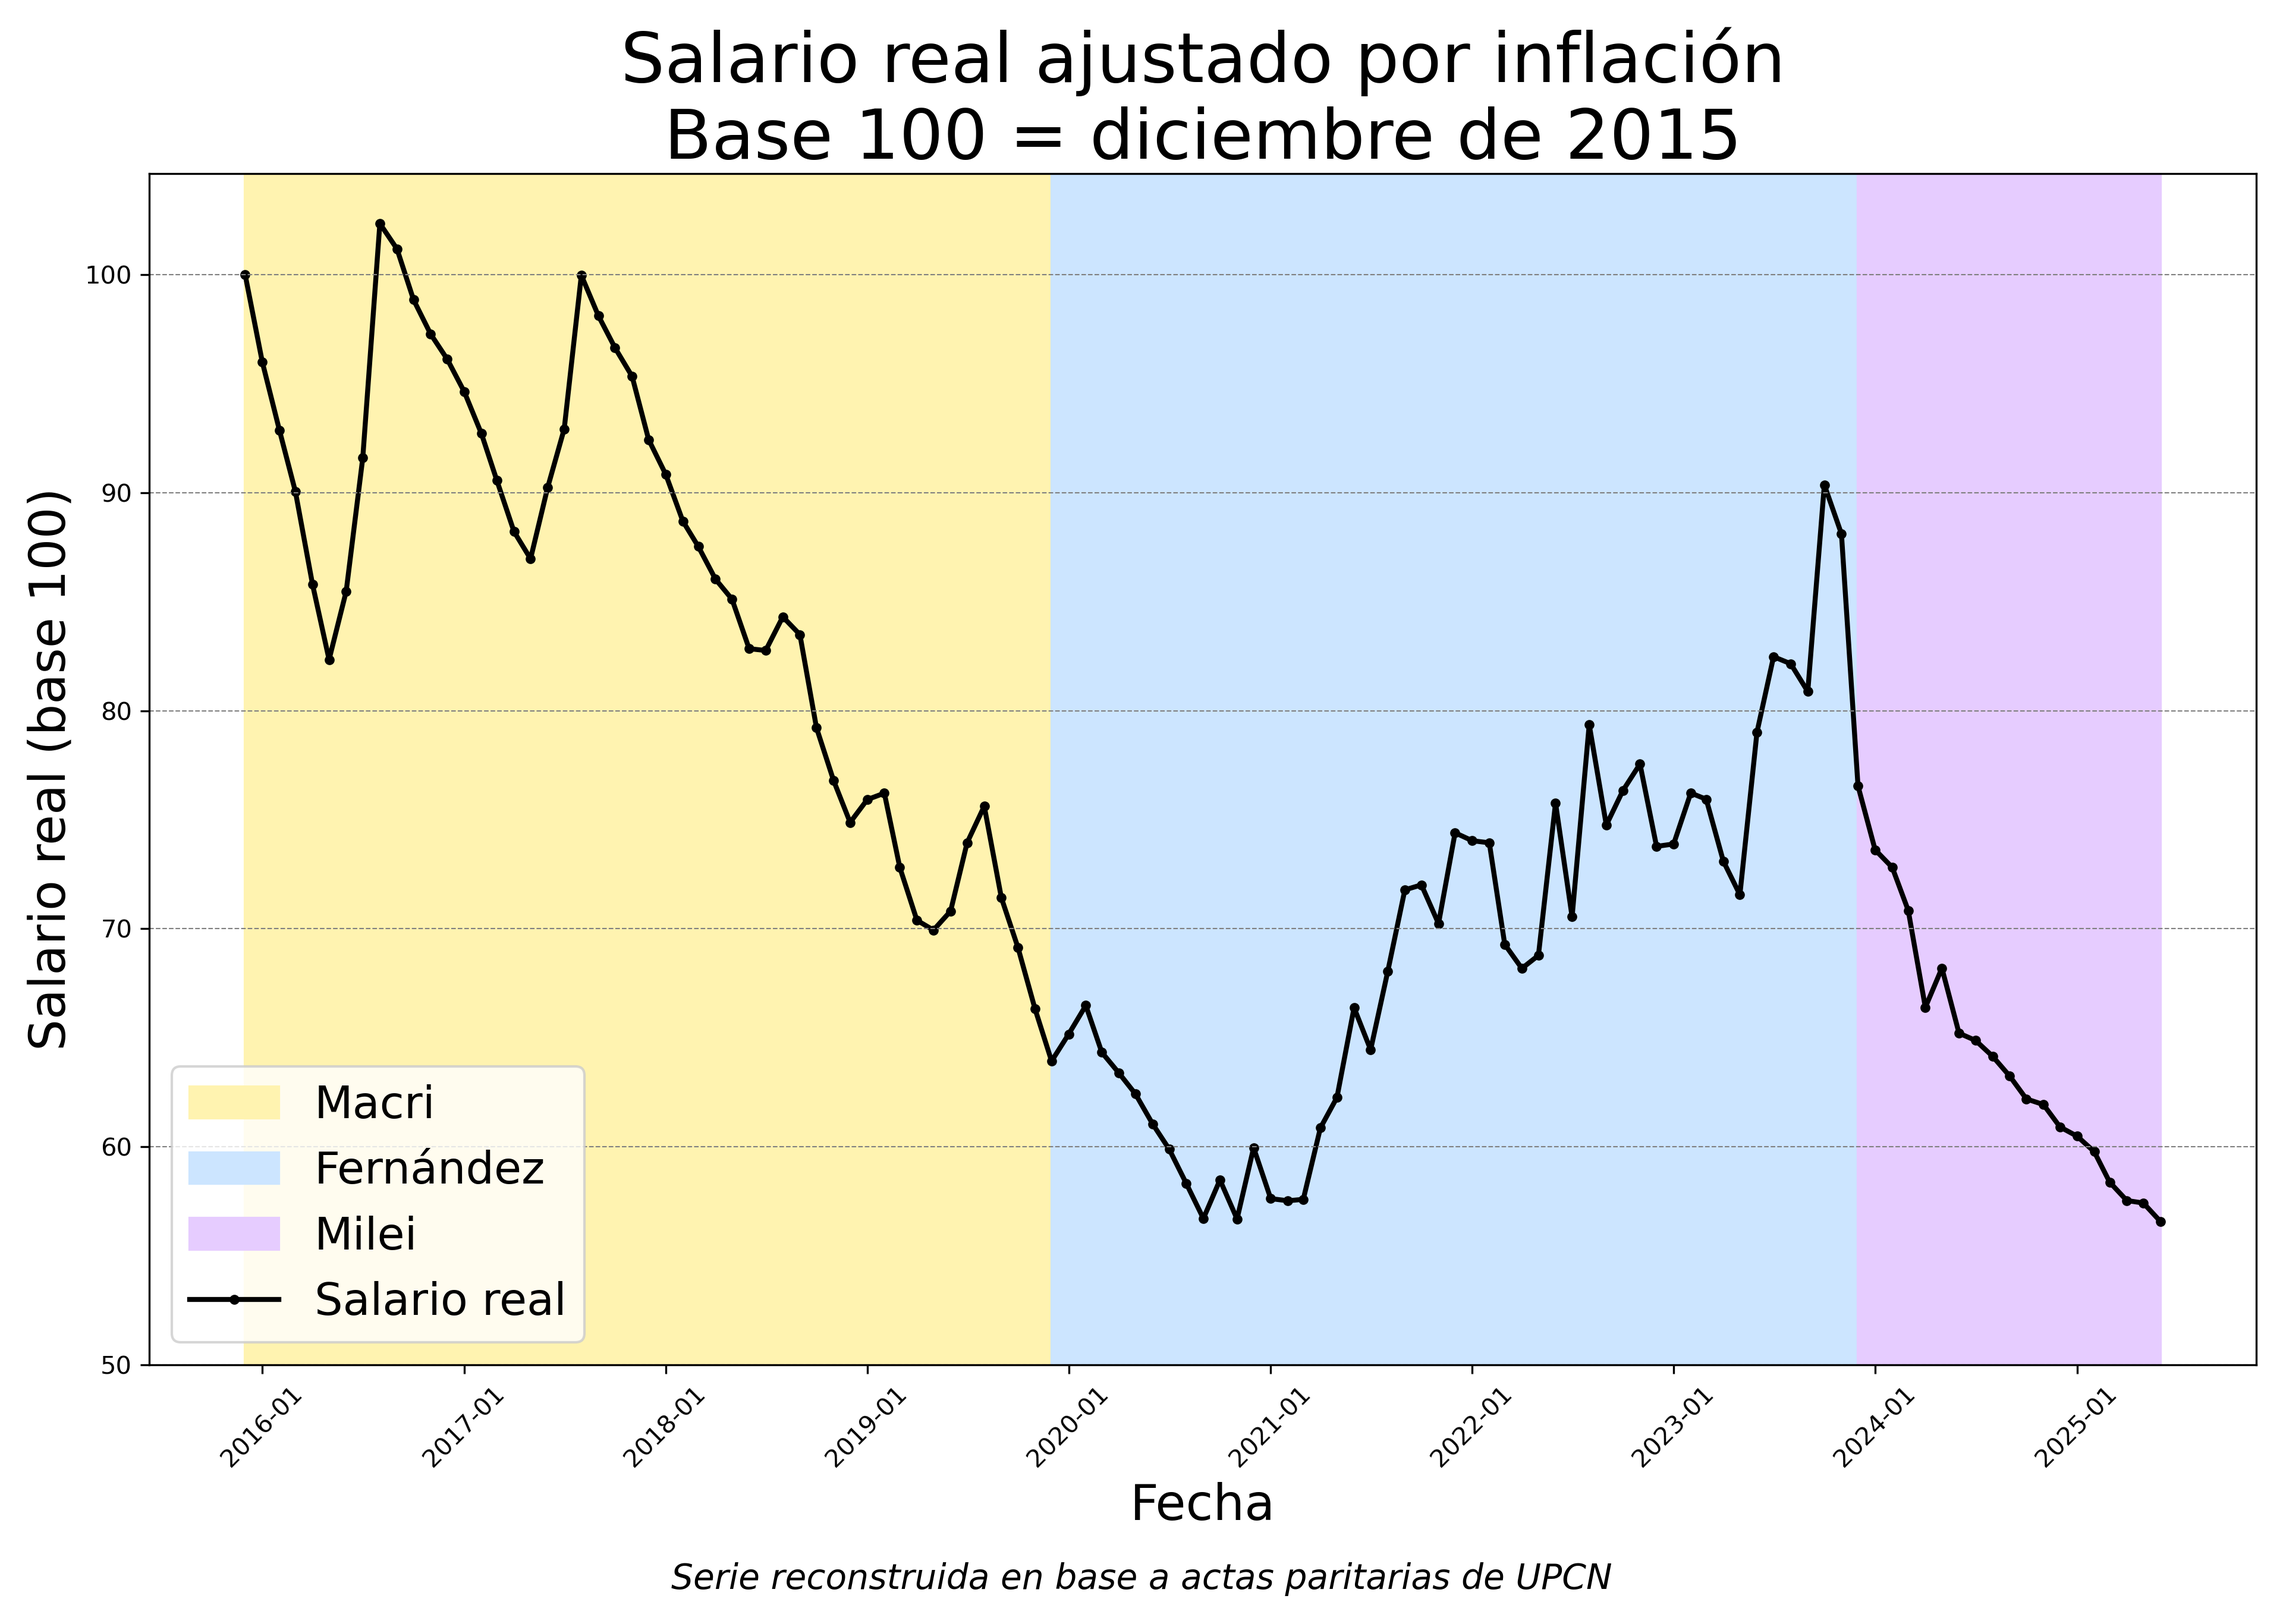
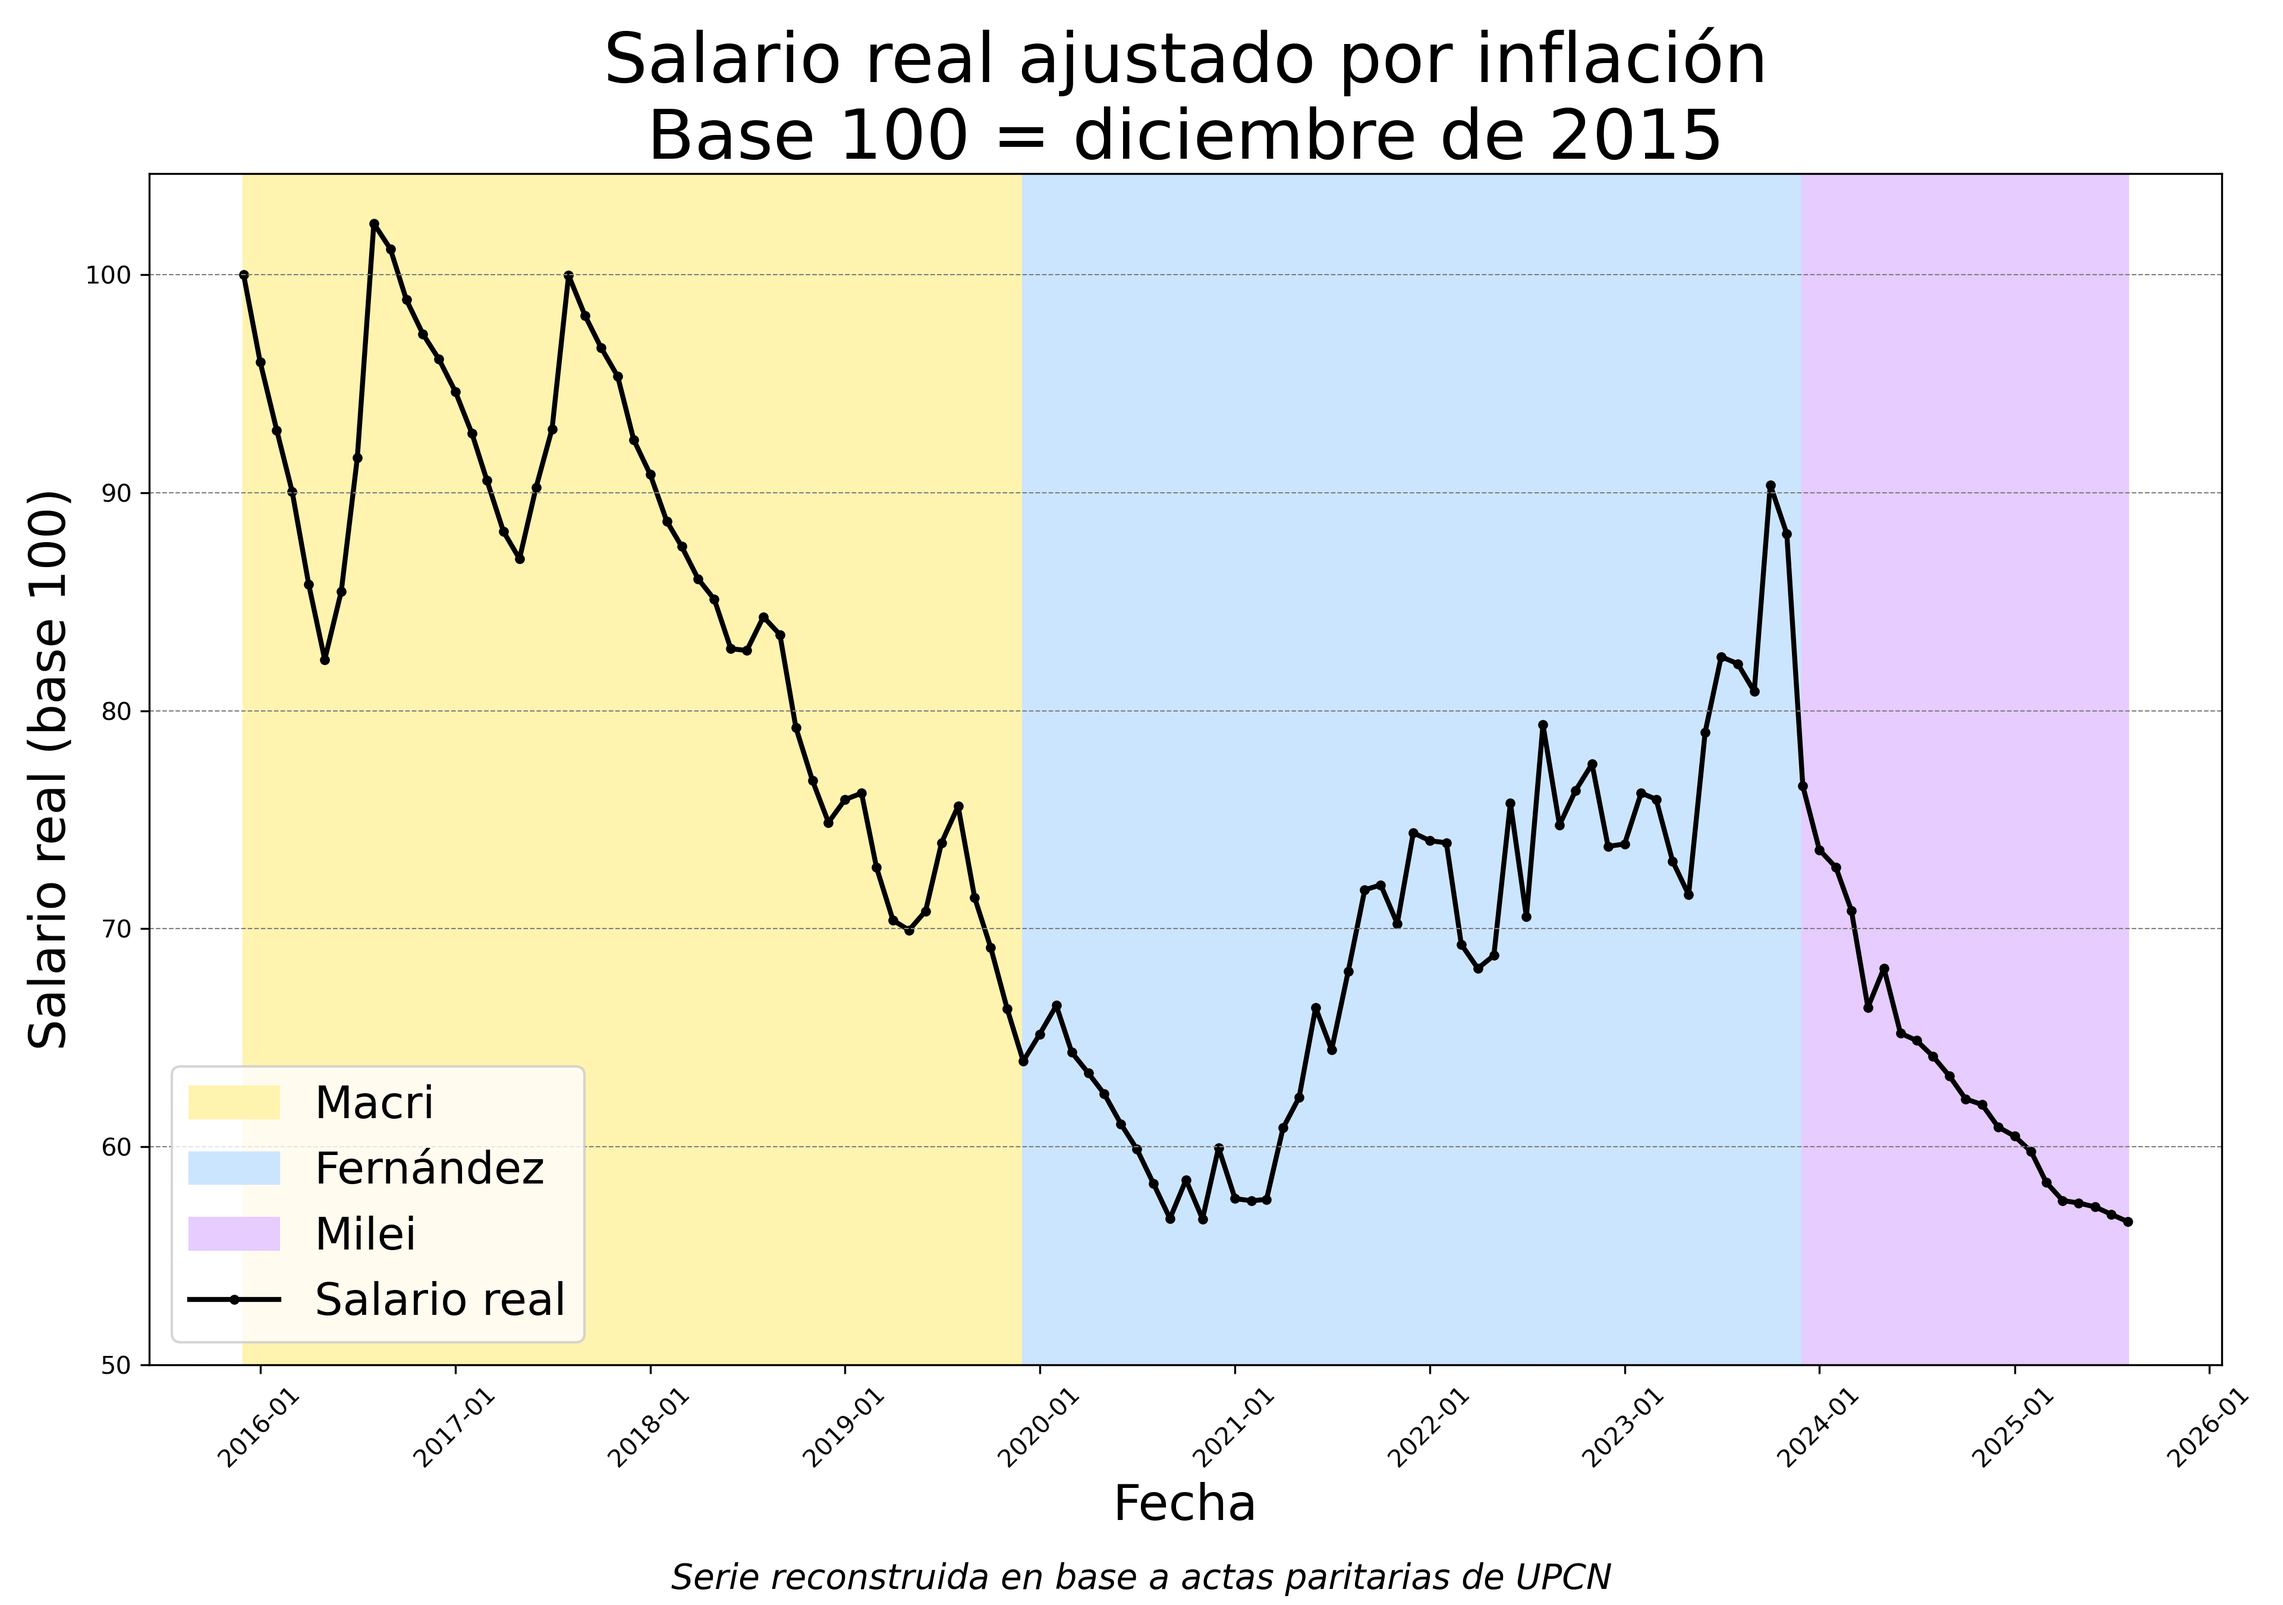
actualizo a agosto

diff --git a/graf_cic.py b/graf_cic.py
@@ -4,6 +4,7 @@ import matplotlib.dates as mdates
 import numpy as np
 from adjustText import adjust_text
 
+
 # Leer el archivo CSV
 df = pd.read_csv("datos/cic.csv", parse_dates=["fecha"])
 
@@ -38,9 +39,17 @@ for y in yticks:
 ax.xaxis.set_major_formatter(mdates.DateFormatter('%Y-%m'))
 ax.xaxis.set_major_locator(mdates.YearLocator())
 plt.xticks(rotation=45)
+# Get the last date from the data
+MONTH_NAMES = {
+    1: 'enero', 2: 'febrero', 3: 'marzo', 4: 'abril',
+    5: 'mayo', 6: 'junio', 7: 'julio', 8: 'agosto',
+    9: 'septiembre', 10: 'octubre', 11: 'noviembre', 12: 'diciembre'
+}
+last_date = df["fecha"].max()
+last_date_str = f"{MONTH_NAMES[last_date.month]} de {last_date.year}"
 
-# Etiquetas y leyenda
-ax.set_title("Salario de bolsillo ajustado por IPC\nInvestigador asistente (pesos de junio/2025)", fontsize=28)
+# Update title with dynamic date reference
+ax.set_title(f"Salario de bolsillo ajustado por IPC\nInvestigador asistente (pesos de {last_date_str})", fontsize=28)
 ax.set_xlabel("Fecha", fontsize=20)
 ax.set_ylabel("Salario real (millones)", fontsize=20)
 ax.legend(fontsize=20)
